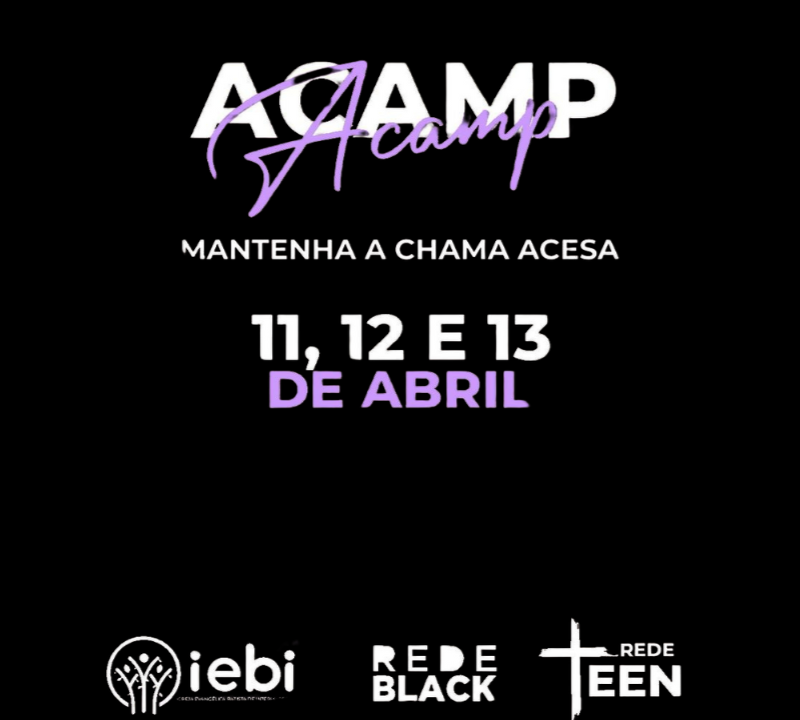
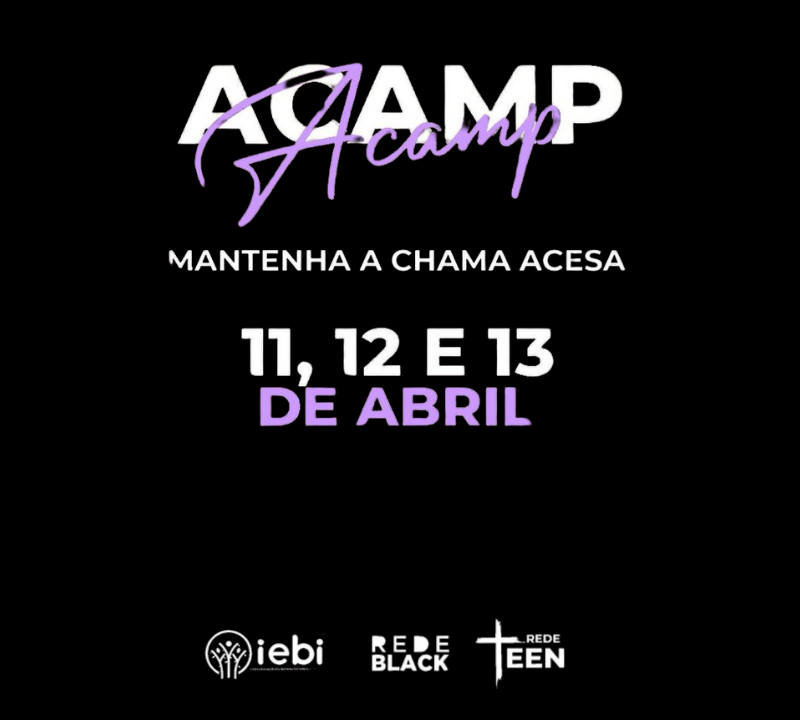
acamp

diff --git a/index.html b/index.html
@@ -19,20 +19,9 @@
             color: #333;
             padding-top: 0px;
             overflow: hidden;
-        }
-
-        .container-main {
-            width: 800px;
-            /* Largura fixa de 800px */
-            max-width: 800px;
-            /* Mantém limitação máxima para compatibilidade */
-            height: 720px;
-            /* Altura fixa de 720px */
-            margin-top: -45px;
-            background-color: rgba(255, 255, 255, 0);
-            padding: 20px;
-            border-radius: 10px;
-            box-shadow: 0 0 10px rgba(0, 0, 0, 0.1);
+            text-align: center; /* Centraliza o conteúdo inline */
+            position: relative; /* Para posicionamento do botão */
+            min-height: 100vh;
         }
 
         .header {
@@ -78,7 +67,7 @@
             box-shadow: 0 4px 15px rgba(255, 140, 0, 0.4);
             transition: all 0.3s ease;
             position: absolute;
-            top: 55%;
+            top: 54%;
             left: 50%;
             transform: translateX(-50%);
             text-decoration: none;
@@ -95,12 +84,12 @@
             text-decoration: none;
         }
 
-        .mobile-image {
-            display: none;
-        }
-
-        .desktop-image {
+        .desktop-image, .mobile-image {
+            margin-top: 0; /* Posiciona no topo vertical */
+            max-width: 100%; 
             display: block;
+            margin-left: auto;
+            margin-right: auto;
         }
 
         @media screen and (max-width: 768px) {
@@ -112,41 +101,25 @@
                 display: none;
             }
 
-            .container-main {
-                min-height: 100px;
-                /* Diminui altura mínima */
-                width: 100%;
-                /* Em telas pequenas, ocupa a largura disponível */
-                height: 720px;
-                /* Mantém a altura mesmo em telas pequenas */
-                margin-top: -25px;
-                /* Ajusta margem superior */
-                overflow-y: auto;
-                /* Adiciona rolagem vertical se necessário */
-            }
 
             .btn-gradient {
-                padding: 10px 20px;
+                padding: 12px 30px;
                 font-size: 16px;
-                min-width: 180px;
+                min-width: 250px;
             }
         }
     </style>
 </head>
 
 <body>
-    <div class="container-fluid px-4 py-5">
-        <div class="row justify-content-center">
-            <div class="container-main col-12 col-sm-10 col-md-8 col-lg-6 position-relative">
-                <img src="./assets/Texto.png" alt="Texto" class="img-fluid mb-4 desktop-image">
-                <img src="./assets/Texto Celular.png" alt="Texto" class="img-fluid mb-4 mobile-image">
-                <!-- Novo botão Bootstrap com gradiente -->
-            <a href="frminscricaoACAMP.html" class="btn-gradient">
-                Inscreva-se Agora
-            </a>
-            </div>
-        </div>
-    </div>
+    <img src="./assets/Texto.png" alt="Texto" class="img-fluid mb-4 desktop-image">
+    <img src="./assets/Texto Celular.png" alt="Texto" class="img-fluid mb-4 mobile-image">
+
+    <!-- Novo botão Bootstrap com gradiente -->
+    <a href="frminscricaoACAMP.html" class="btn-gradient">
+        Inscreva-se Agora
+    </a>
+
 </body>
 
 </html>
